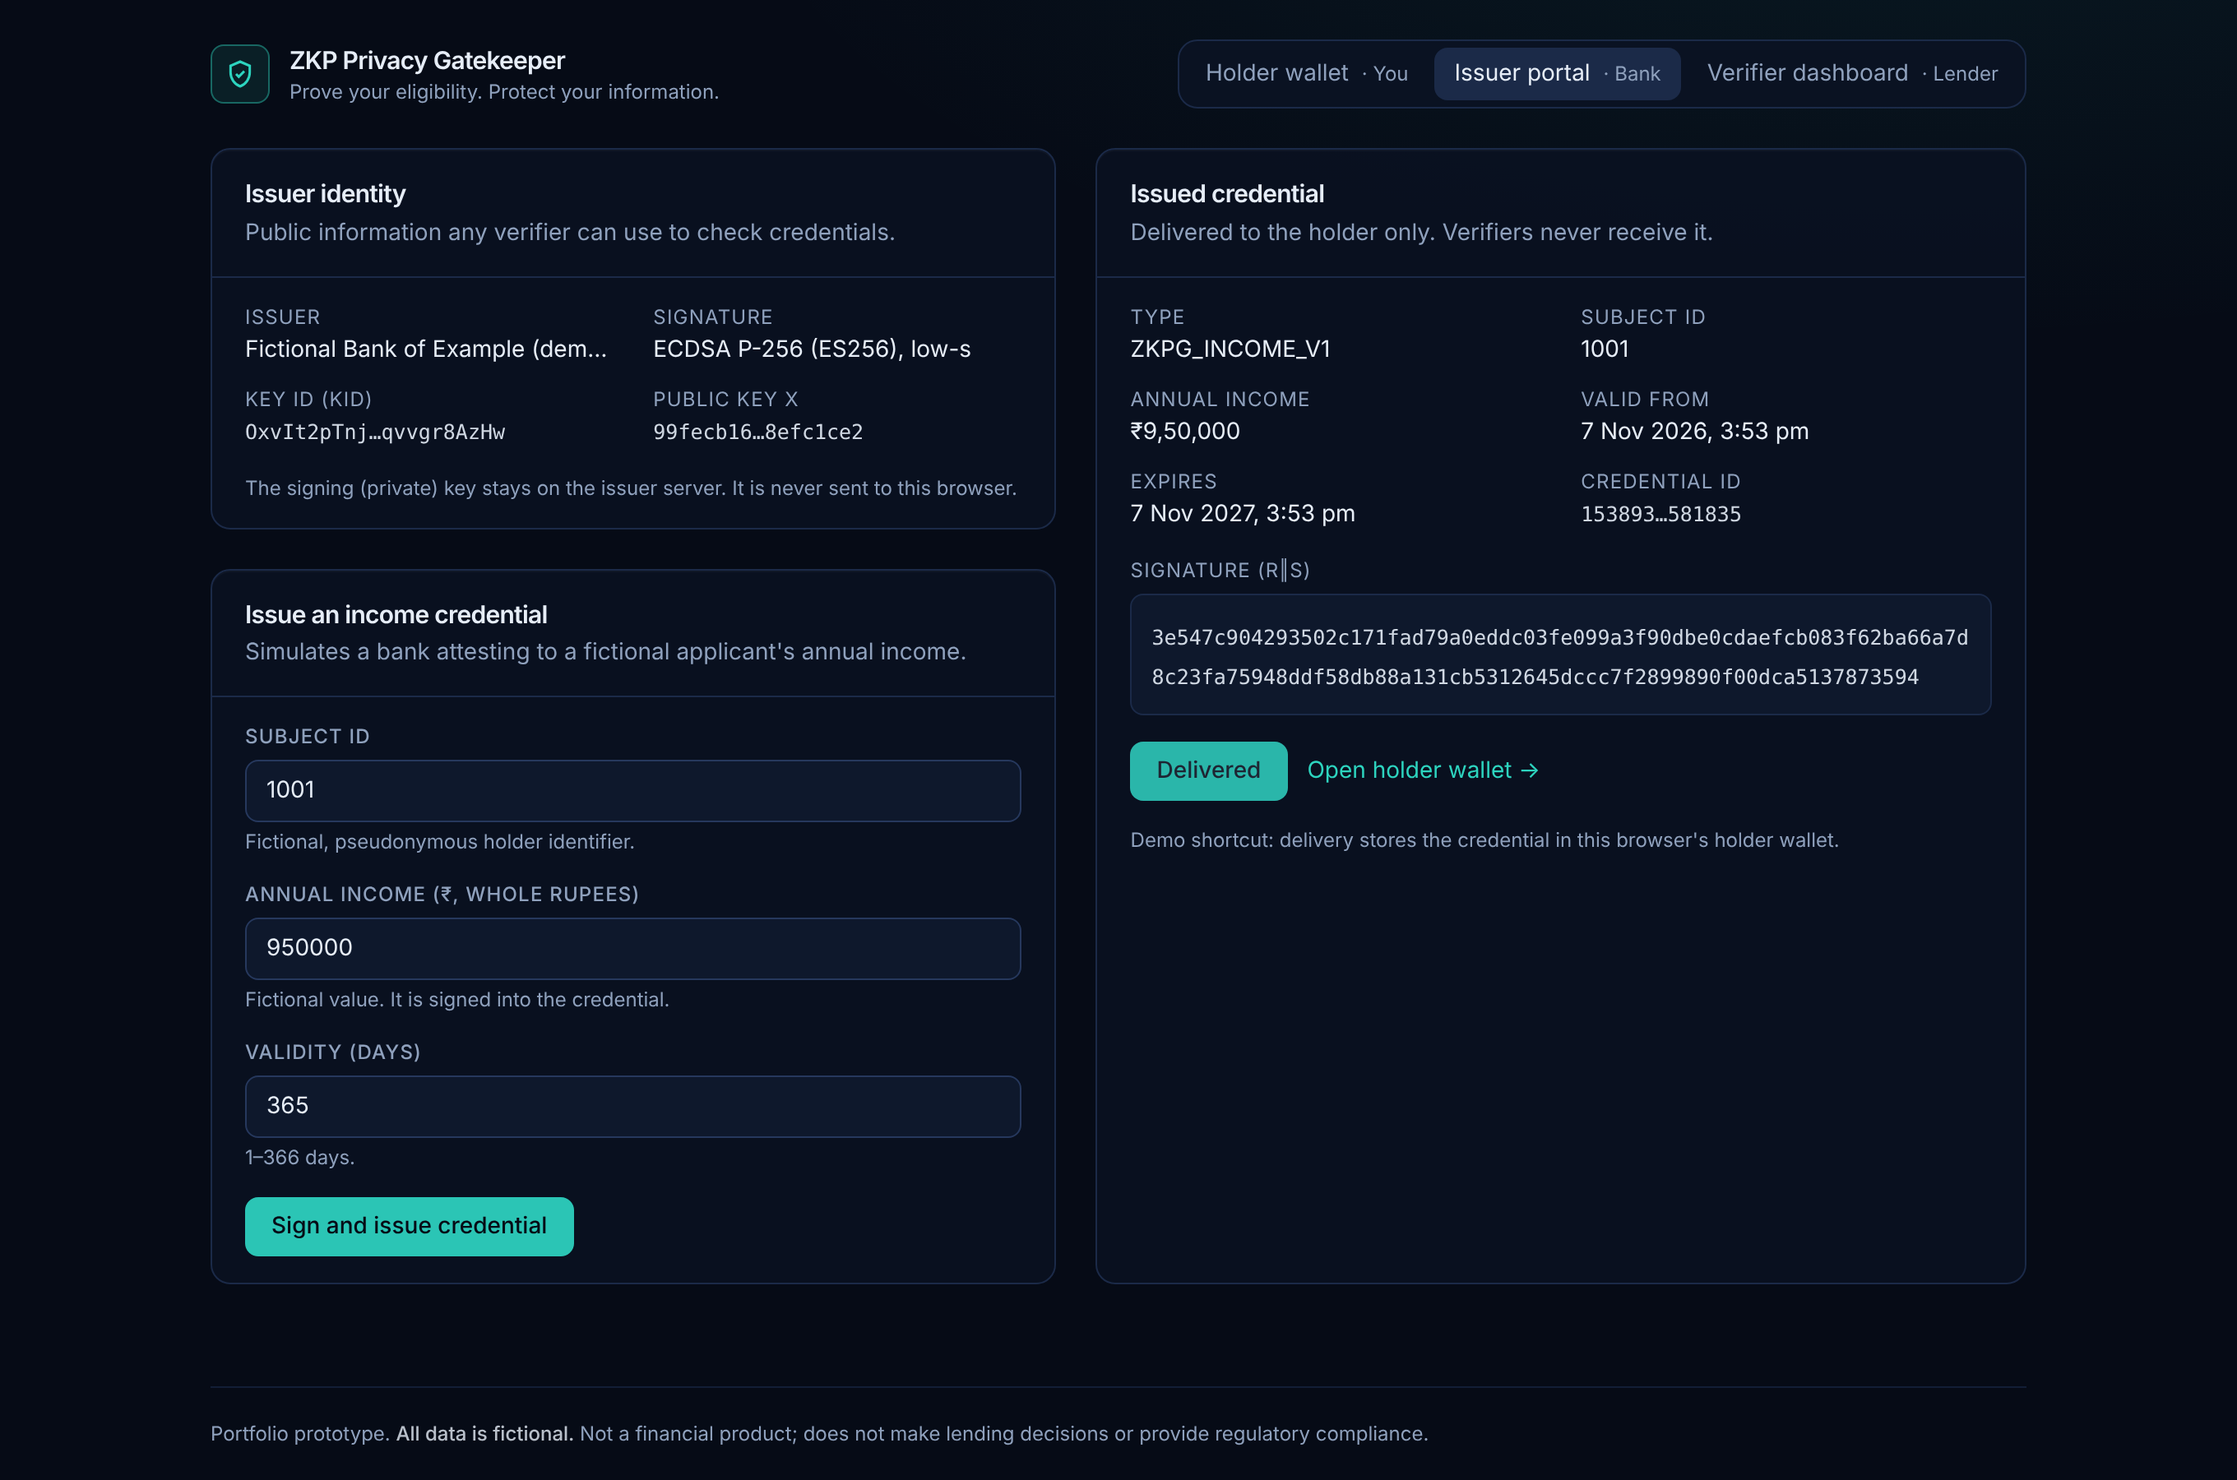
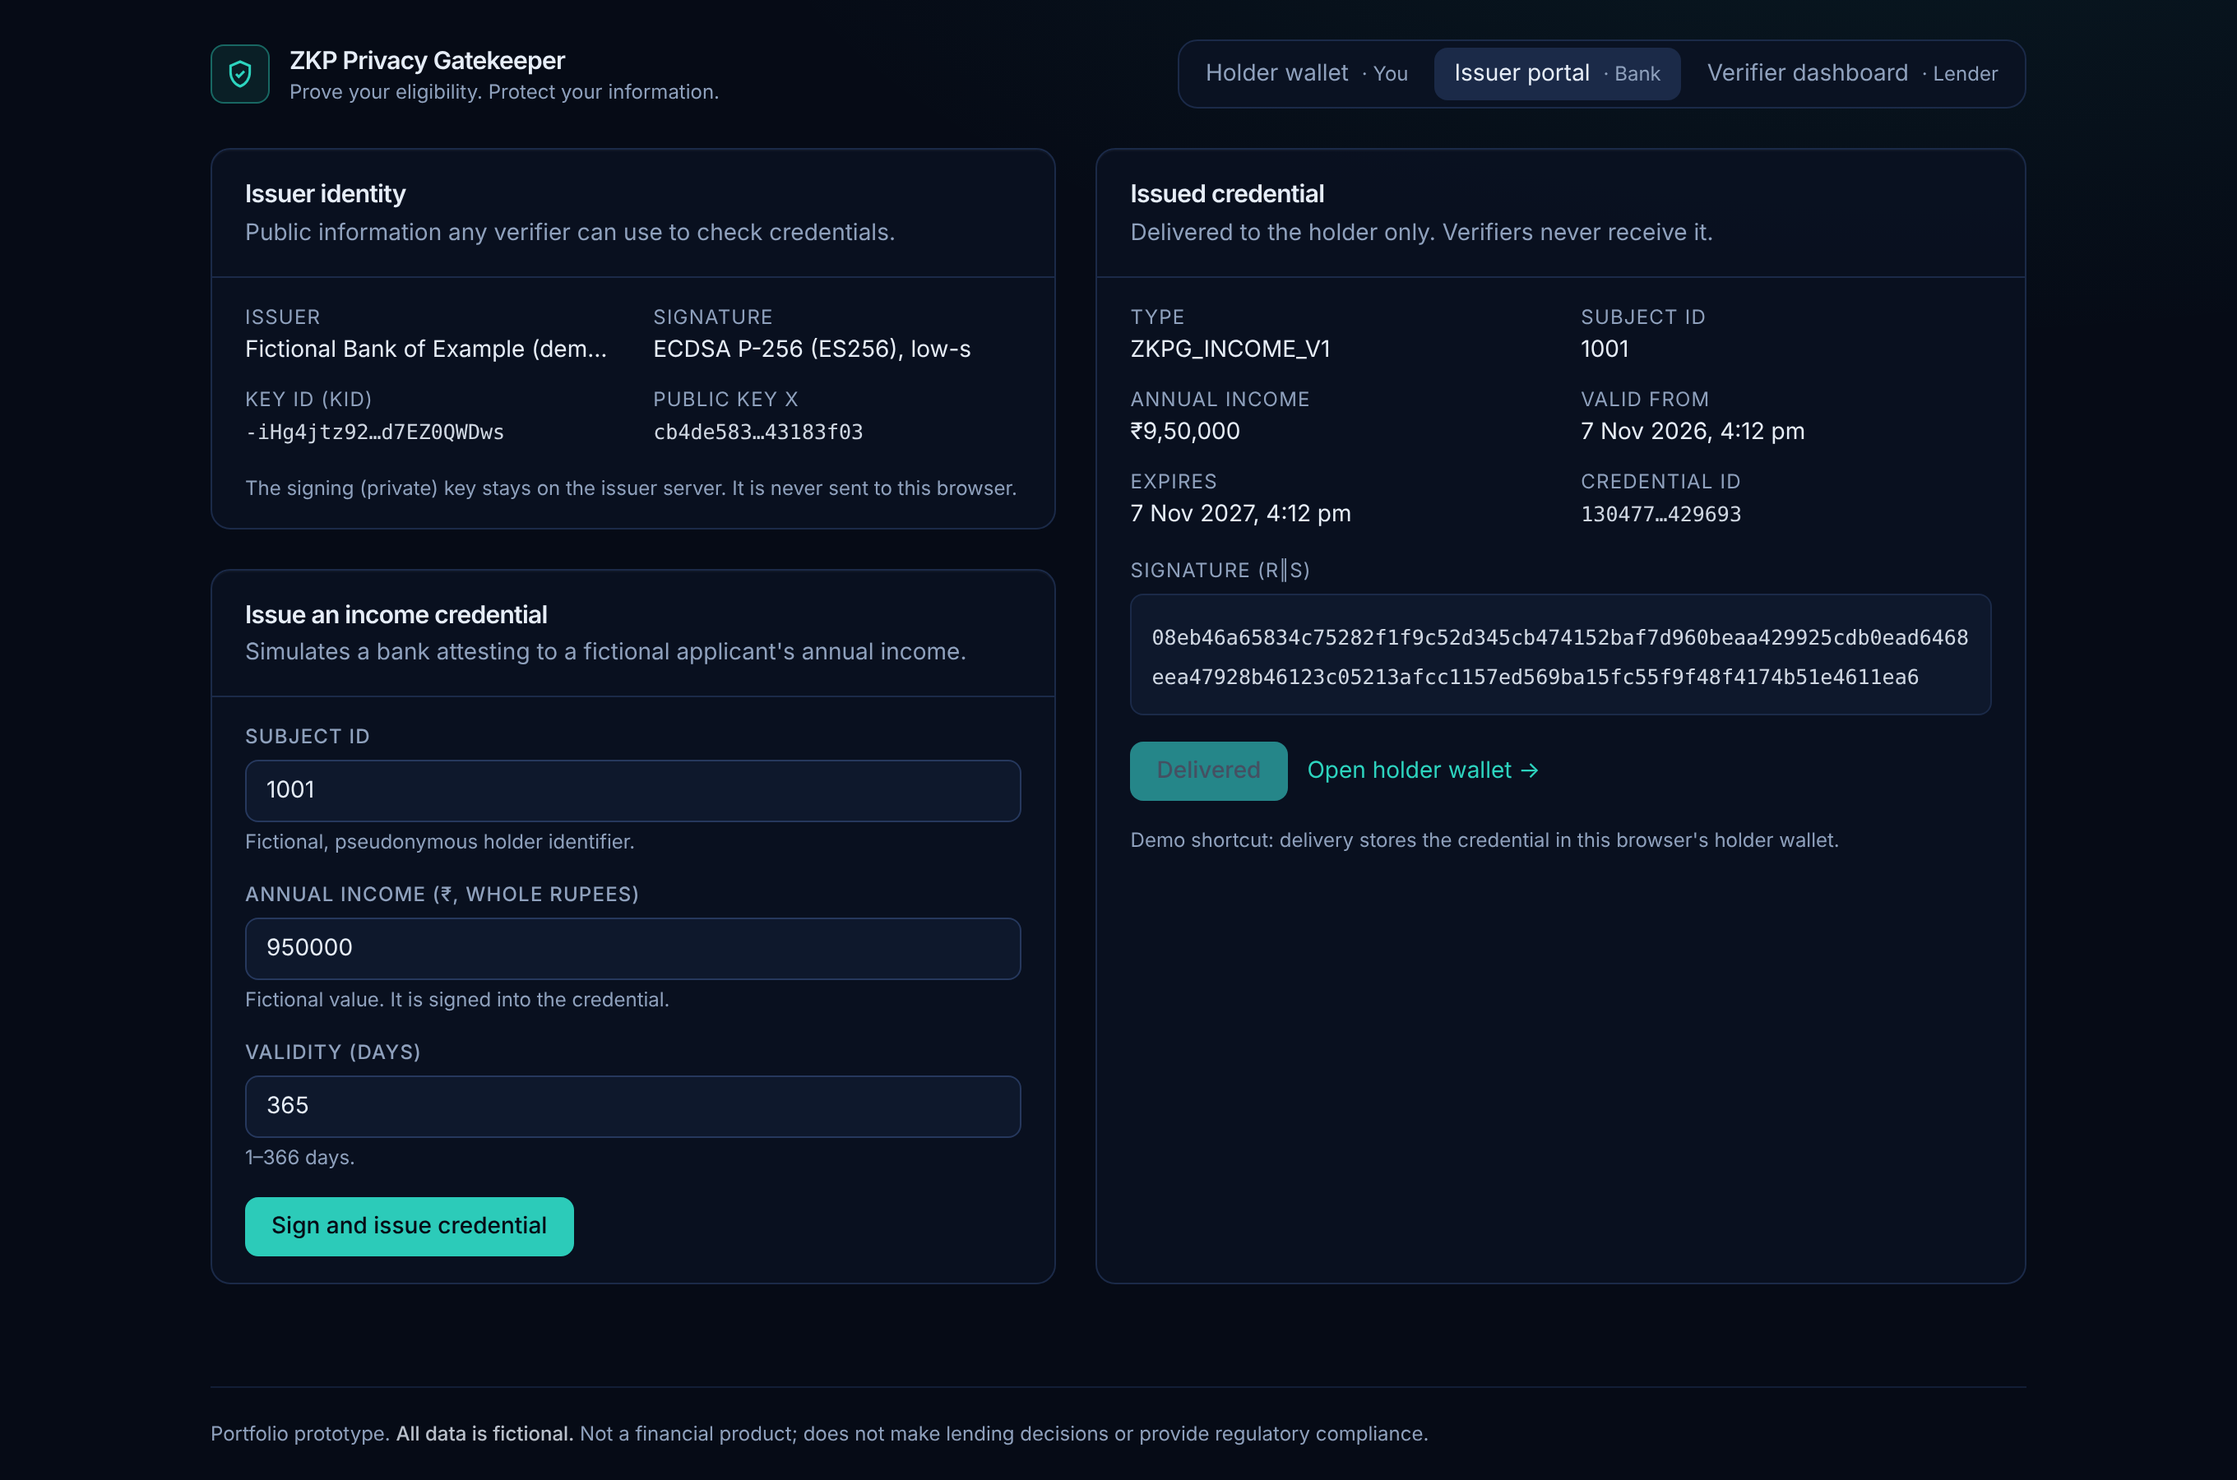
docs: add security model and Milestone 5 results
Document assets, attacks with controls and test evidence, residual
risks, access control and the request lifecycle; refresh screenshots.

Claude-Session: https://claude.ai/code/session_017WqVtpTKEmFQScAP3xZFG9

diff --git a/docs/security-model.md b/docs/security-model.md
@@ -1,0 +1,69 @@
+# Security model
+
+Threat model and controls for the prototype as of **Milestone 5**. This is a portfolio
+prototype with fictional data, **not** a production system; limitations are listed
+explicitly at the end.
+
+## 1. Assets
+
+| Asset | Where it lives | Why it matters |
+|---|---|---|
+| Exact income and credential | Holder's browser only | The value the system exists to protect |
+| Issuer signing key | Issuer server, `keys/issuer.pem` (0600, git-ignored) | Whoever holds it can mint credentials for any income |
+| Role tokens (issuer, verifier) | `.env` (0600, git-ignored), read server-side only | Control who can issue credentials and create or see requests |
+| Request decisions and challenges | Verifier SQLite DB | Integrity of eligibility results; replay protection |
+
+## 2. Adversaries and what stops them
+
+| # | Attack | Control | Evidence (test) |
+|---|---|---|---|
+| A1 | Holder claims an income they don't have | The circuit verifies the issuer's ECDSA signature over the exact claims | `nargo test`: tampered income/expiry/signature; `test:circuit`: tampered income |
+| A2 | Holder creates their own "bank" key and self-signs | The verifier accepts only trusted issuer keys | `UNTRUSTED_ISSUER` (circuit + API tests) |
+| A3 | Proof reused for another request or verifier (replay) | Challenge bound into the proof; one decision per request (atomic SQL update); decisions persist across restarts | `CHALLENGE_MISMATCH`; security suite: sequential, concurrent (3 at once → 1 accepted), after restart |
+| A4 | Old proof presented later | Request expiry (default 10 min) checked before and after verification; `current_time` must equal the request's | Security suite: valid proof after expiry → 410 / `EXPIRED` |
+| A5 | Public inputs edited after proving (threshold, time, key) | UltraHonk binds all public inputs; any change fails verification | `test:circuit`: altered challenge/threshold/time/key |
+| A6 | Malformed or oversized payloads | Strict schema (exactly `{proof, publicInputs}`), 128 KB body limit, 64 KB proof limit, typed errors; a bad payload does not consume the request | Security suite: income field, 200 KB body → 413, malformed JSON, out-of-range inputs |
+| A7 | Verifier narrows down income with many thresholds (binary search) | Thresholds must be multiples of ₹10,000; request-creation rate limit; wallet warns about repeated thresholds from the same verifier; the holder must consent to each request | Security suite: step and rate limits; E2E: probing warning |
+| A8 | Unauthorised issuing or request creation | Bearer role tokens (constant-time compare, ≥ 32 chars, server refuses to start without them) | issuer + verifier auth tests (401) |
+| A9 | Tokens leaked to the browser | Tokens are injected server-side by the web proxy, only on issuer/verifier routes; client-supplied `Authorization` headers are stripped | E2E: no Authorization header on any browser request; bundle contains no tokens |
+| A10 | Private data leaking via storage or logs | Verifier stores only public data; the audit log stores a proof **fingerprint**, not the proof; logs never include incomes; errors never echo request bodies | Security suite: byte-level scan of DB, WAL and SHM files, audit log and logs; E2E: logs and all browser→verifier requests |
+| A11 | Signature malleability (high-s twin) | Low-s enforced by the issuer, the JS verifier and the circuit | credentials + experiment tests |
+| A12 | Brute force / flooding | Rate limits on issuance (30/min), request creation (30/10 min) and holder submissions (20/min per client) | rate-limit tests (429) |
+
+## 3. What each party learns
+
+| Party | Learns | Does not learn |
+|---|---|---|
+| Issuer | The income it attests to (it is the source) | Which verifiers the holder talks to |
+| Verifier | Trusted issuer key used; income ≥ its threshold; its own challenge and time | Exact income, credential, signature, subject ID, dates |
+| Network observer | That a proof was exchanged (use TLS in deployment) | Proof contents reveal nothing beyond the statement |
+
+## 4. Residual risks and limitations (honest list)
+
+- **Threshold probing is reduced, not eliminated.** A verifier with many accounts or
+  many requests over time can still learn an income range. Coarse thresholds,
+  rate limits and holder consent raise the cost; they do not make it impossible.
+- **Rate limits are in-memory and per process.** They reset on restart and do not
+  coordinate across instances. Behind the dev proxy all holders share one client IP.
+- **Demo authentication.** Role tokens stand in for real user authentication (e.g.
+  OIDC). Anyone who can reach the issuer or verifier portal through the proxy acts with
+  that role.
+- **Issuer key compromise** lets an attacker mint credentials. Mitigations: HSM/KMS,
+  key rotation (supported via `kid` trust lists), removing compromised keys from
+  verifiers. Credentials already issued under a removed key stop verifying.
+- **No holder binding.** A stolen credential file can be used by someone else.
+- **No revocation** before expiry (`credentialId` is reserved for a status mechanism).
+- **Holder wallet** uses plain `localStorage`; a production wallet would encrypt
+  credentials and protect them with device authentication.
+- **Request IDs are capabilities**: anyone holding the link can view the request and
+  decline it. Requests contain no private data.
+- **The `current_time` the verifier chooses is trusted** for expiry; a malicious
+  verifier could pick an old time, which only harms itself.
+- **No TLS in local development.** A deployment must serve everything over HTTPS.
+
+## 5. Operational rules
+
+- Never commit `.env`, keys (`*.pem`, `keys/`), databases (`*.sqlite`, `data/`),
+  credentials (`*.credential.json`) or prover inputs (`Prover.toml`). `.gitignore`
+  enforces this; every commit is also scanned before pushing.
+- Use fictional data only.

diff --git a/docs/development-log.md b/docs/development-log.md
@@ -349,3 +349,79 @@ including CRS download and engine start-up; later proofs ≈ 3.7 s (CRS cached i
 - The holder wallet stores credentials in plain localStorage (demo only). Delivery from
   issuer to holder is simulated within the same browser.
 - First-proof latency is dominated by the CRS download and WASM start-up.
+
+---
+
+## Milestone 5 — Independent verification API hardening
+
+**Date:** 2026-11-07 · **Branch:** `milestone-5/verification-hardening`
+
+### Done
+
+- **Persistent store** (`apps/verifier-api/src/store.ts`) using Node 22's built-in
+  `node:sqlite` (no new dependency). It stores public data only.
+- **Single-use requests.** A decision is one atomic
+  `UPDATE … WHERE status = 'PENDING'`, so concurrent submissions cannot both succeed,
+  and decisions persist across restarts.
+- **Request expiry** (default 600 s). Checked before and after the (slow) proof
+  verification; late submissions → `410` / `EXPIRED`; stale pending requests expire
+  when listed.
+- **Audit log:** events, request id, outcome, reason, issuer `kid`, and a **proof
+  fingerprint** (truncated SHA-256) instead of the proof. Shown on the verifier dashboard.
+- **Demo access control** (`packages/server-security`):
+  - Bearer role tokens, compared in constant time; services refuse to start with a
+    missing or weak token.
+  - `npm run setup` creates `.env` (0600, git-ignored).
+  - The web proxy injects tokens server-side, only on issuer and verifier routes.
+- **Abuse and probing limits:**
+  - rate limits on issuance (30/min), request creation (30/10 min) and holder
+    submissions (20/min);
+  - thresholds must be multiples of ₹10,000;
+  - the wallet warns when a verifier asks different thresholds within 24 h.
+- **Security headers** on both APIs (`no-store`, `nosniff`, `DENY`, strict CSP); `x-powered-by` removed.
+- **[`docs/security-model.md`](security-model.md):** assets, 12 attacks with their
+  controls and test evidence, and residual risks.
+
+### Tests (actual results)
+
+| Suite | Result |
+|---|---|
+| server-security | 10/10 |
+| issuer-demo (auth, rate limit, headers) | 14/14 |
+| verifier-api API (real proofs) | 7/7 |
+| **verifier-api security suite (real proofs)** | **24/24** |
+| credentials unit / real-proof CLI | 70/70 · 18/18 |
+| web unit | 11/11 |
+| **Browser E2E (Chromium)** | **24/24 checks** |
+| nargo (11 + 6), artifact freshness | pass |
+
+Security suite highlights:
+- 3 concurrent identical submissions → exactly one `200`, two `409`.
+- A proof racing a decline → one decision.
+- Replay after a restart → `409`.
+- A valid proof one second before expiry → accepted; at expiry → `410`.
+- Income field in the payload → `400`, and the request stays pending.
+- 200 KB body → `413`.
+- Thresholds off the ₹10,000 step → `400`; rate limits → `429` (audited).
+- **Byte-level scan of every SQLite file (db, WAL, SHM), the audit log and logs: no
+  income in decimal or field encoding.**
+
+New E2E checks:
+- No `Authorization` header ever leaves the browser, and the built bundle contains no
+  tokens or token names.
+- The probing warning appears.
+- The audit log shows decisions without income.
+- A direct unauthenticated list call gets `401`.
+
+### Design notes
+
+- Bad payloads (`400`) do **not** consume a request, so a third party with the link
+  cannot burn it by posting junk. Valid but failing proofs (`INVALID`) do.
+- The proof fingerprint lets an auditor match a decision to a proof the holder kept,
+  without the verifier storing proofs.
+
+### Known limitations
+
+See [security-model.md §4](security-model.md#4-residual-risks-and-limitations-honest-list):
+in-memory, per-process rate limits; demo token auth instead of user login; no holder
+binding; no revocation; plain-localStorage wallet; probing reduced, not eliminated.

diff --git a/README.md b/README.md
@@ -6,11 +6,10 @@ A portfolio prototype for **privacy-preserving financial eligibility checks** us
 genuine Zero-Knowledge Proofs (ZKPs), written in [Noir](https://noir-lang.org) and
 proven with [Barretenberg](https://github.com/AztecProtocol/aztec-packages/tree/master/barretenberg).
 
-> **Status: Milestone 4 — application interfaces.** The full workflow runs in the
-> browser: an issuer signs a credential, the holder reviews a request, consents and
-> **generates the proof locally**, and an independent verifier checks it with bb.js.
-> Hardening (request expiry, audit logs, access control, security test suite) is
-> Milestone 5.
+> **Status: Milestone 5 — hardened verification.** The full workflow runs in the
+> browser (the holder **generates the proof locally**), and the verifier enforces
+> single-use, expiring requests with persistent state, a privacy-conscious audit log,
+> demo role tokens and rate limits. See the [security model](docs/security-model.md).
 > See
 > [`docs/development-log.md`](docs/development-log.md) for what has actually been built and tested.
 
@@ -51,7 +50,7 @@ Issuer ──signed credential──▶ Holder ──proof + public inputs──
 | 2 | Issuer credential prototype (signing) | ✅ Done (ECDSA P-256, not yet in-circuit) |
 | 3 | Credential-aware ZKP | ✅ Done |
 | 4 | Holder / issuer / verifier UI | ✅ Done |
-| 5 | Independent verification API (replay, expiry) | ⏳ Planned |
+| 5 | Independent verification API (replay, expiry) | ✅ Done |
 | 6 | Security & performance tests | ⏳ Planned |
 | 7 | Portfolio release | ⏳ Planned |
 
@@ -75,7 +74,7 @@ npm run keygen                                   # demo issuer key (git-ignored)
 npm run issue -- --subject 1001 --income 950000 --out demo.credential.json
 ```
 
-Design docs: [credential format](docs/credential-format.md) ·
+Design docs: [security model](docs/security-model.md) · [credential format](docs/credential-format.md) ·
 [signature scheme evaluation](docs/signature-scheme-evaluation.md)
 
 ## Run the demo
@@ -85,6 +84,7 @@ committed compiled circuit.
 
 ```bash
 npm install
+npm run setup       # creates .env with random demo role tokens (git-ignored)
 npm run issuer      # terminal 1: issuer on :4001 (creates a demo key in apps/issuer-demo/keys/, git-ignored)
 npm run verifier    # terminal 2: verifier on :4002 (trusts the issuer's published key)
 npm run web         # terminal 3: http://localhost:5173

diff --git a/docs/architecture.md b/docs/architecture.md
@@ -1,7 +1,7 @@
 # Architecture
 
-How the parts fit together as of **Milestone 4**. Milestone 5 hardens the verification
-API. This document is updated as milestones land.
+How the parts fit together as of **Milestone 5**. Threats and controls are in
+[security-model.md](security-model.md).
 
 ## Roles and data flow
 
@@ -32,8 +32,26 @@ API. This document is updated as milestones land.
 | Process | Port | Holds |
 |---|---|---|
 | `apps/issuer-demo` (Express) | 4001 | issuer **private key** (file, 0600, git-ignored); never sent to clients |
-| `apps/verifier-api` (Express + bb.js) | 4002 | requests, challenges, results, the trusted issuer key (no incomes) |
+| `apps/verifier-api` (Express + bb.js + SQLite) | 4002 | requests, challenges, decisions and audit log in `data/verifier.sqlite` (public data only), the trusted issuer key |
 | `apps/web` (React + Vite) | 5173 | UI. Holder credentials live in the browser's localStorage (demo) |
+
+## Access control (demo)
+
+| Route | Who | How |
+|---|---|---|
+| `POST /api/issuer/credentials` | issuer | bearer `ISSUER_API_TOKEN` |
+| `GET /api/issuer/public-key` | anyone | public |
+| `POST/GET /api/verifier/requests`, `GET /api/verifier/audit` | verifier | bearer `VERIFIER_API_TOKEN` |
+| `GET /api/verifier/requests/:id`, `POST …/proof`, `POST …/decline` | holder | knowledge of the unguessable request id |
+
+In the demo, the web server's proxy injects the issuer and verifier tokens server-side
+for their portal routes (standing in for real login). Browser code never sees a token.
+
+## Request lifecycle
+
+`PENDING` → exactly one of `ELIGIBLE`, `INVALID`, `NOT_ELIGIBLE` (declined) or `EXPIRED`
+(no answer within `REQUEST_TTL_SECONDS`, default 600). The transition is a single atomic
+SQL update, so concurrent submissions cannot both succeed, and it survives restarts.
 
 The web server sends COOP/COEP headers so the page is cross-origin isolated, which lets
 bb.js use multiple threads (SharedArrayBuffer). The circuit artifact
